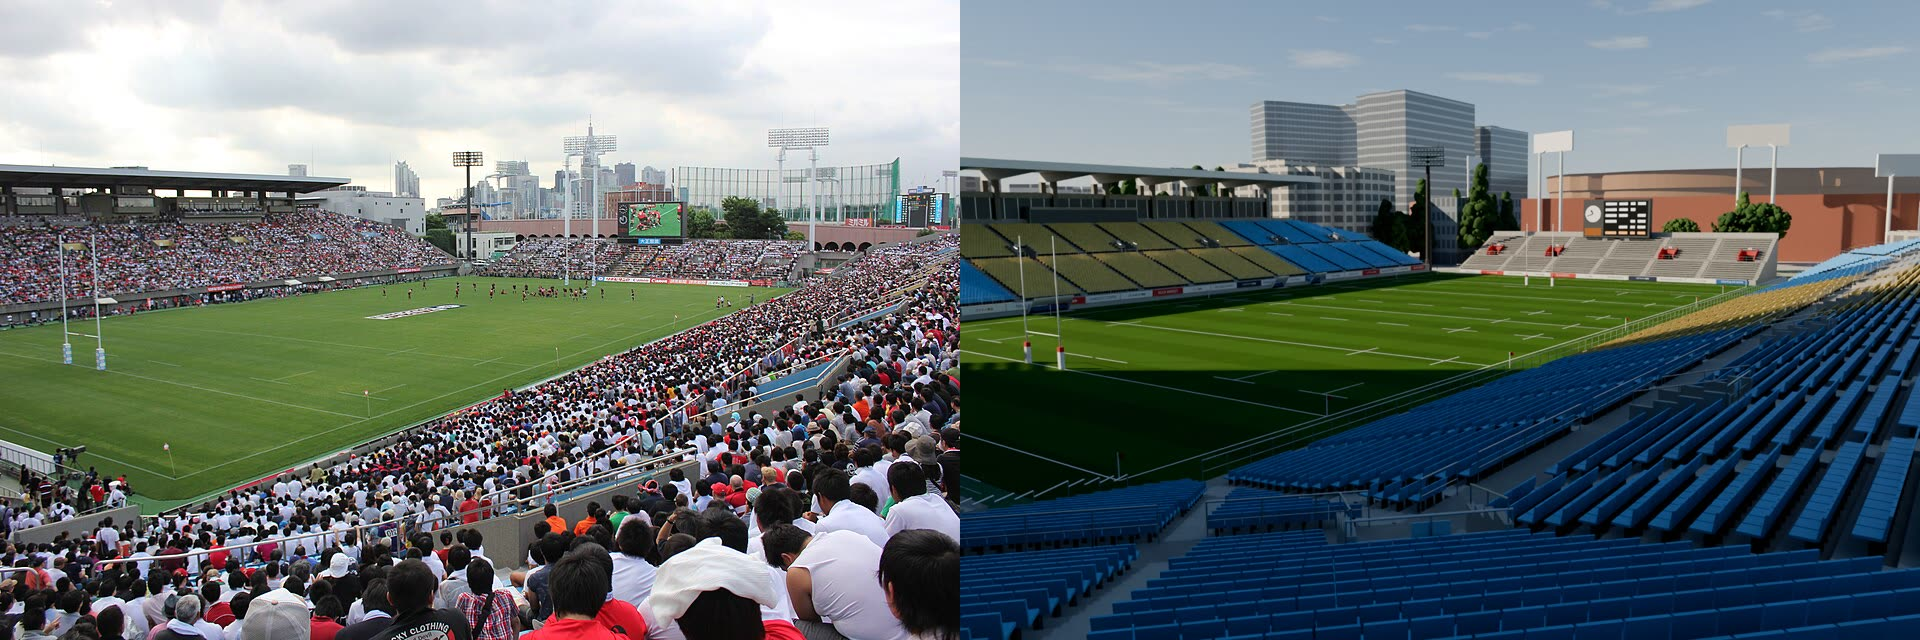
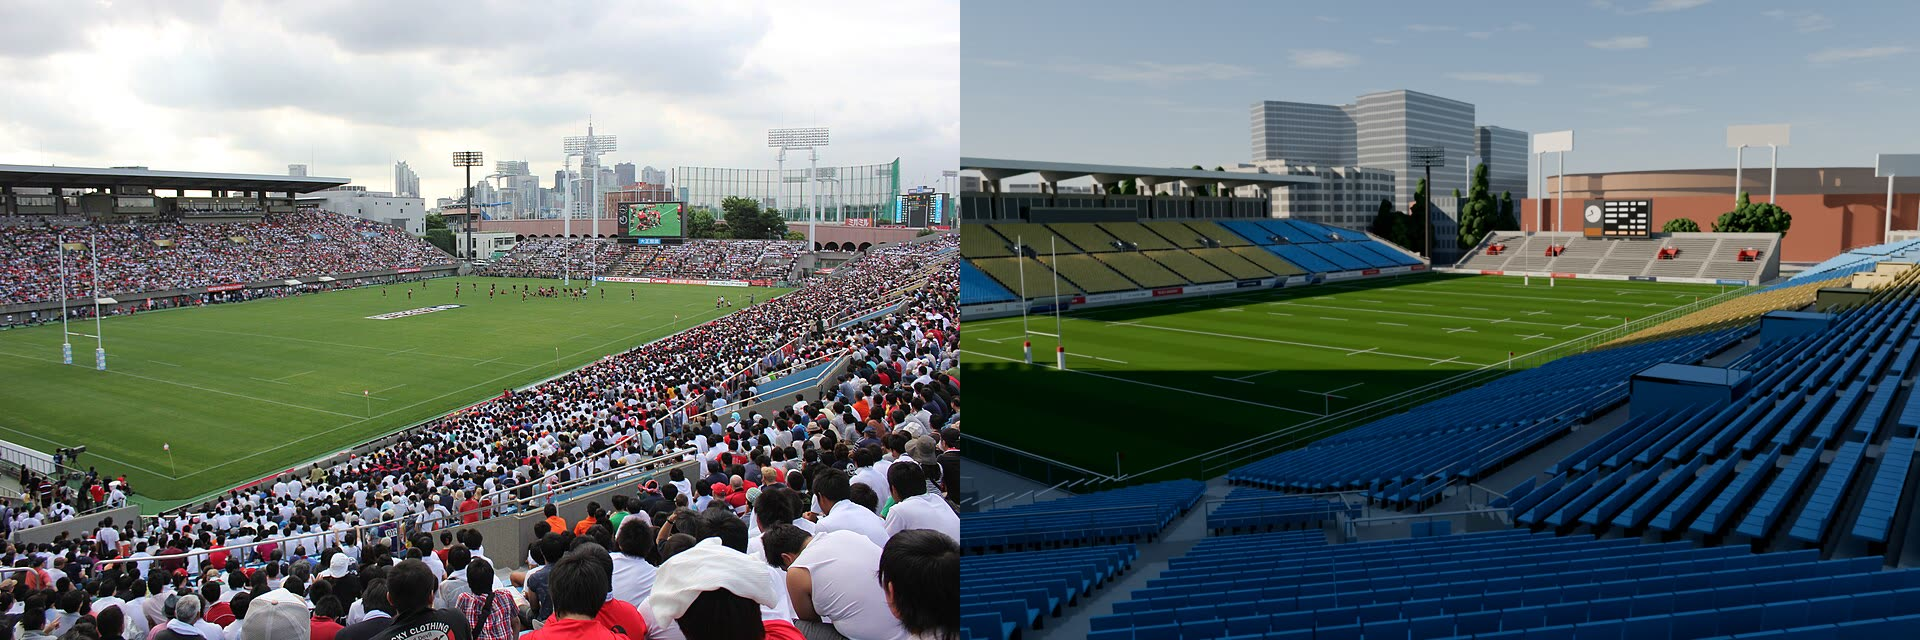
南スタンドの前の通路: 前の壁を芝の端 X −70.3 へ出し、座席の前に幅 3 m の通路と芝の側の網の柵(写真 025・空中写真の明るい帯)。通路は両端から 3 m 外へ続く。端の壁は座席の始まりから。北スタンドの端の外に通路と柵(写真 018)。出入口の箱はバックスタンドのまっすぐな部分だけに(写真 03・04・02・019 で、ほかのスタンドと角のブロックには箱がない)。比較 01〜05 を描き直した

diff --git a/scripts/cb/stands.py b/scripts/cb/stands.py
@@ -68,10 +68,63 @@ def _mass(name, c):
         _edge_parapets(name, st, mb, ph, wall)
     elif not st.get("corners"):
         _end_walls(st, mb, ph)
+        if name in END_WALK:
+            _end_walk(st, mb, END_WALK[name])
+        if name in FRONT_WALK_EXT:
+            _front_walk_ext(st, mb, FRONT_WALK_EXT[name])
     mb.build("stand_" + name, c)
 
 
 END_WALL = dict(th=0.3, above=1.0, band_h=1.4, band_out=0.25, rail=0.45, post=2.0)
+
+
+END_WALK = {"north": dict(w=3.2)}
+# 写真 018(北西の角の外から): 北スタンドの端の壁ぞいに、外から芝の角へ行く通路があり、外側は柵。
+# 南スタンドの前の通路(写真 025)は端の脇ではなく座席の前にあるので、寸法の最前の flat で作り、両端から外へ FRONT_WALK_EXT だけ延ばす。
+# 北の通路の高さは模型の地面(芝と同じ高さ)に置いた(写真 018 で段差は見えない)
+
+FRONT_WALK_EXT = {"south": 3.0}   # 写真 025: 前の通路は端の壁より先(メインスタンドとの間)へ続く。長さは推定
+
+
+def _end_walk(st, mb, cfg):
+    """端の壁の外の通路(舗装の帯)と、その外側の網の柵(高さ 1.8 m、2.5 m ごとの柱)。"""
+    E = END_WALL
+    pave = M.get("paving_grey")
+    mesh = M.get("fence_mesh")
+    steel = M.get("grey_steel")
+    T = layout.treads(st)
+    dE = T[-1]["d1"]
+    off0 = E["th"] + E["band_out"]
+    w = cfg["w"]
+    for side, s in ((0, -1.0), (1, 1.0)):
+        U = lambda d, o: layout.u_range(st, d)[side] + s * o
+        ds = [0.0] + layout.breaks(st, 0.0, dE) + [dE]
+        ds = sorted(set(ds))
+        for da, db in zip(ds, ds[1:]):
+            q = [(U(da, off0), da, 0.03), (U(db, off0), db, 0.03), (U(db, off0 + w), db, 0.03), (U(da, off0 + w), da, 0.03)]
+            mb.face(q if s < 0 else q[::-1], pave)
+            # 柵: 網の面と上下の横棒
+            f = [(U(da, off0 + w), da, 0.0), (U(db, off0 + w), db, 0.0), (U(db, off0 + w), db, 1.8), (U(da, off0 + w), da, 1.8)]
+            mb.face(f, mesh)
+            for z in (0.05, 1.8):
+                mb.cyl((U(da, off0 + w), da, z), (U(db, off0 + w), db, z), 0.025, steel, n=6)
+        n = max(1, int(dE / 2.5 + 0.5))
+        for i in range(n + 1):
+            d = dE * i / n
+            mb.cyl((U(d, off0 + w), d, 0.0), (U(d, off0 + w), d, 1.8), 0.035, steel, n=6)
+
+
+def _front_walk_ext(st, mb, ext):
+    """最前の通路を両端から外へ延ばす台(高さは前の壁と同じ)と、芝の側の網の柵。写真 025。"""
+    from .details import _front_mesh
+    pave, wall = M.get("paving_grey"), M.get("concrete_light")
+    T = layout.treads(st)
+    z, d1 = T[0]["z"], T[0]["d1"]
+    a, b = layout.u_range(st, 0.0)
+    for (u0, u1) in ((a - ext, a), (b, b + ext)):
+        mb.box(u0, u1, 0.0, d1, 0.0, z, wall, bottom=False)
+        mb.face(((u0, 0.0, z + 0.005), (u1, 0.0, z + 0.005), (u1, d1, z + 0.005), (u0, d1, z + 0.005)), pave)
+        _front_mesh(mb, u0, u1, 0.15, z)
 
 
 def _end_walls(st, mb, ph):
@@ -84,12 +137,14 @@ def _end_walls(st, mb, ph):
     alu = M.get("aluminium")
     T = layout.treads(st)
     dE = T[-1]["d1"]
+    # 最前が広い通路(2 m 超)なら、壁は座席の始まりから(写真 025: 前の通路の端は開いている)
+    ds0 = T[0]["d1"] if T[0]["kind"] == "flat" and T[0]["d1"] - T[0]["d0"] > 2.0 else 0.0
     # 上端の線: 前の端、各踏み面の中央、後ろの端(後ろの腰壁の高さに合わせる)
-    prof = [(0.0, T[0]["z"] + E["above"])]
-    prof += [((t["d0"] + t["d1"]) / 2, t["z"] + E["above"]) for t in T]
+    prof = [(ds0, T[0]["z"] + E["above"])]
+    prof += [((t["d0"] + t["d1"]) / 2, t["z"] + E["above"]) for t in T if (t["d0"] + t["d1"]) / 2 > ds0 + 1e-6]
     prof += [(dE, T[-1]["z"] + max(ph, E["above"]))]
     # 端の折れ目(平面で端が曲がる所)でも点を足す
-    ds = sorted(set([p[0] for p in prof] + layout.breaks(st, 0.0, dE)))
+    ds = sorted(set([p[0] for p in prof] + [b for b in layout.breaks(st, 0.0, dE) if b > ds0]))
 
     def top(d):
         for (d0, z0), (d1, z1) in zip(prof, prof[1:]):
@@ -124,15 +179,15 @@ def _end_walls(st, mb, ph):
             q = [(U(da), da, za), (U(db), db, zb), (U(db, th + bo), db, zb), (U(da, th + bo), da, za)]
             mb.face(q[::-1] if s > 0 else q, conc)
         # 前と後ろの小口
-        for d, zt, sg in ((0.0, top(0.0), -1.0), (dE, top(dE), 1.0)):
+        for d, zt, sg in ((ds0, top(ds0), -1.0), (dE, top(dE), 1.0)):
             u0, u1 = U(d), U(d, th + bo)
             mb.face(((u0, d, 0.0), (u1, d, 0.0), (u1, d, zt), (u0, d, zt)), conc)
         # 手すり: 上端の線の 0.45 m 上、2 m ごとに支柱
         um = lambda d: U(d, th / 2)
-        L = dE
+        L = dE - ds0
         n = max(2, int(L / E["post"] + 0.5))
         for i in range(n):
-            d0, d1 = L * i / n, L * (i + 1) / n
+            d0, d1 = ds0 + L * i / n, ds0 + L * (i + 1) / n
             mb.cyl((um(d0), d0, top(d0) + E["rail"]), (um(d1), d1, top(d1) + E["rail"]), 0.03, alu, n=6)
             mb.cyl((um(d0), d0, top(d0)), (um(d0), d0, top(d0) + E["rail"]), 0.022, alu, n=6)
 

diff --git a/scripts/cb/cameras.py b/scripts/cb/cameras.py
@@ -35,7 +35,7 @@ VIEWS = {
     "end_se": ((-40.0, -12.0, 5.0), (-72.0, -42.0, 5.0), 26),       # 南東の角を芝から
     "corner_nw": ((125.0, 125.0, 55.0), (72.0, 58.0, 4.0), 30),     # 北西の角を外の空から
     "corner_sw": ((-125.0, 125.0, 55.0), (-72.0, 58.0, 4.0), 30),   # 南西の角を外の空から
-    "pass_sw": ((-72.5, 47.0, 1.7), (-72.5, -40.0, 4.0), 24),         # 南西の角の通路から東(写真 025: 左にメインの端、右に南スタンドの端)
+    "pass_sw": ((-71.9, 38.8, 2.8), (-73.0, -40.0, 4.6), 24),      # 南スタンドの前の通路の西の端から東(写真 025: 右に南スタンド、左の網の柵の向こうが芝)
     "pass_sw_up": ((-70.5, 47.0, 4.5), (-88.0, 0.0, 6.5), 26),        # 同じ所の少し上から南スタンドの端(写真 019)
     "vom_blue": ((52.0, -22.0, 7.0), (36.0, -64.0, 6.0), 32),          # バックスタンドの北寄りの出入口(ゲート 15・16)を芝の上から(写真 023)
     "corner_se": ((-125.0, -125.0, 55.0), (-72.0, -58.0, 4.0), 30),  # バックスタンドの南の角(ゲート 9)を空から

diff --git a/scripts/cb/materials.py b/scripts/cb/materials.py
@@ -613,6 +613,7 @@ define("glass", color=srgb(150, 175, 185), rough=0.06, metal=0.0, transmission=0
 define("glass_dark", color=srgb(34, 44, 52), rough=0.05, spec=1.0, coat=1.0)
 define("poly_clear", color=srgb(225, 235, 240), rough=0.15, alpha=0.35)
 define("bench_blue", color=srgb(30, 60, 130), rough=0.5)
+define("fence_mesh", color=srgb(96, 112, 104), rough=0.6, metal=0.3, alpha=0.38)   # 網の柵(写真 018・025。目の細かい金網を半透明で)
 define("aluminium", color=srgb(190, 192, 194), rough=0.35, metal=0.9)
 define("roof_sheet", color=srgb(196, 198, 196), rough=0.55, metal=0.2)
 define("roof_under", color=srgb(214, 214, 210), rough=0.6)
